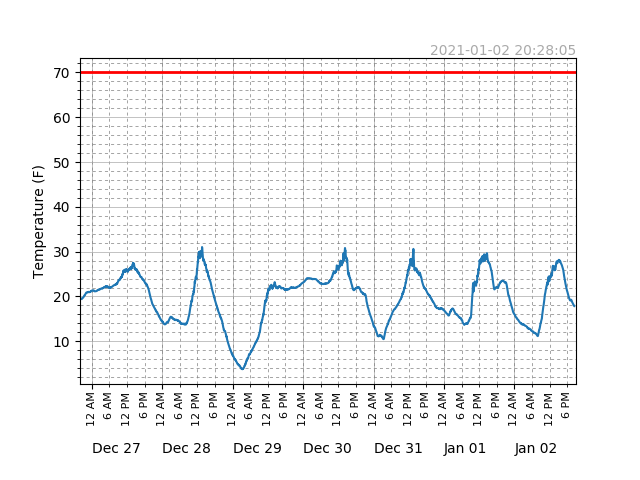
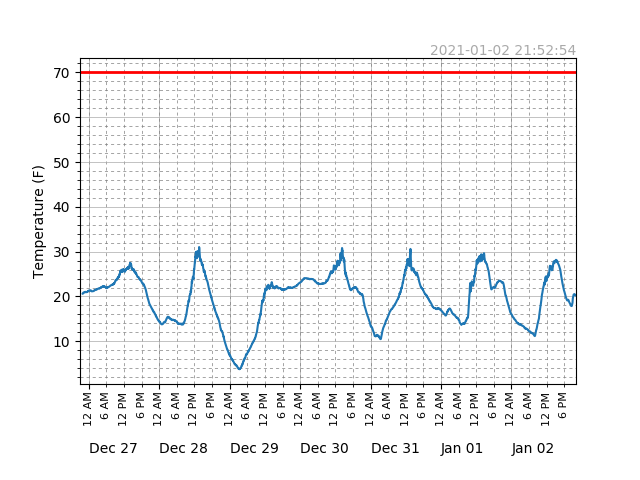
Saturday, 2021Jan02 09:50 pm CST update

diff --git a/weather/index.html b/weather/index.html
@@ -32,7 +32,7 @@ img {
 <body>
 
 <!-- Host and Date/Time -->
-Host: raspi0BME at 192.168.1.121  on DKENet<br>Date/Time: Saturday, 2021Jan02 09:29 pm CST <br><br>
+Host: raspi0BME at 192.168.1.121  on DKENet<br>Date/Time: Saturday, 2021Jan02 09:50 pm CST <br><br>
 <!-- Weather Part 2 -->
 
 <table>
@@ -49,13 +49,13 @@ Host: raspi0BME at 192.168.1.121  on DKENet<br>Date/Time: Saturday, 2021Jan02 09
 <!-- tph_stats.html -->
 <tr>
   <td></td>
-  <td style="text-align:center"><p style="font-size:1.5em">2021Jan02 21:28</p></td>
+  <td style="text-align:center"><p style="font-size:1.5em">2021Jan02 21:48</p></td>
   <td></td>
   <td></td>
 </tr>
 <tr>
   <td><span style="font-size:3em">Temperature</span></td>
-  <td style="text-align:center"><span style="font-size:3em">21&deg;F</span></td>
+  <td style="text-align:center"><span style="font-size:3em">20&deg;F</span></td>
   <td style="text-align:center"><span style="font-size:2em">11&deg;F</span></td>
   <td style="text-align:center"><span style="font-size:2em">28&deg;F</span></td>
 </tr>
@@ -67,8 +67,8 @@ Host: raspi0BME at 192.168.1.121  on DKENet<br>Date/Time: Saturday, 2021Jan02 09
 </tr>
 <tr>
   <td><span style="font-size:3em">Pressure</span><span style="font-size:1em"><br>(Station Altitude: 256.6 m)</span></td>
-  <td style="text-align:center"><span style="font-size:3em">1015 mBar</span><span style="font-size:1em"><br>(29.96"Hg)</span></td>
-  <td style="text-align:center"><span style="font-size:2em">1015 mBar</span></td>
+  <td style="text-align:center"><span style="font-size:3em">1014 mBar</span><span style="font-size:1em"><br>(29.96"Hg)</span></td>
+  <td style="text-align:center"><span style="font-size:2em">1014 mBar</span></td>
   <td style="text-align:center"><span style="font-size:2em">1021 mBar</span></td>
 </tr>
 <tr>
